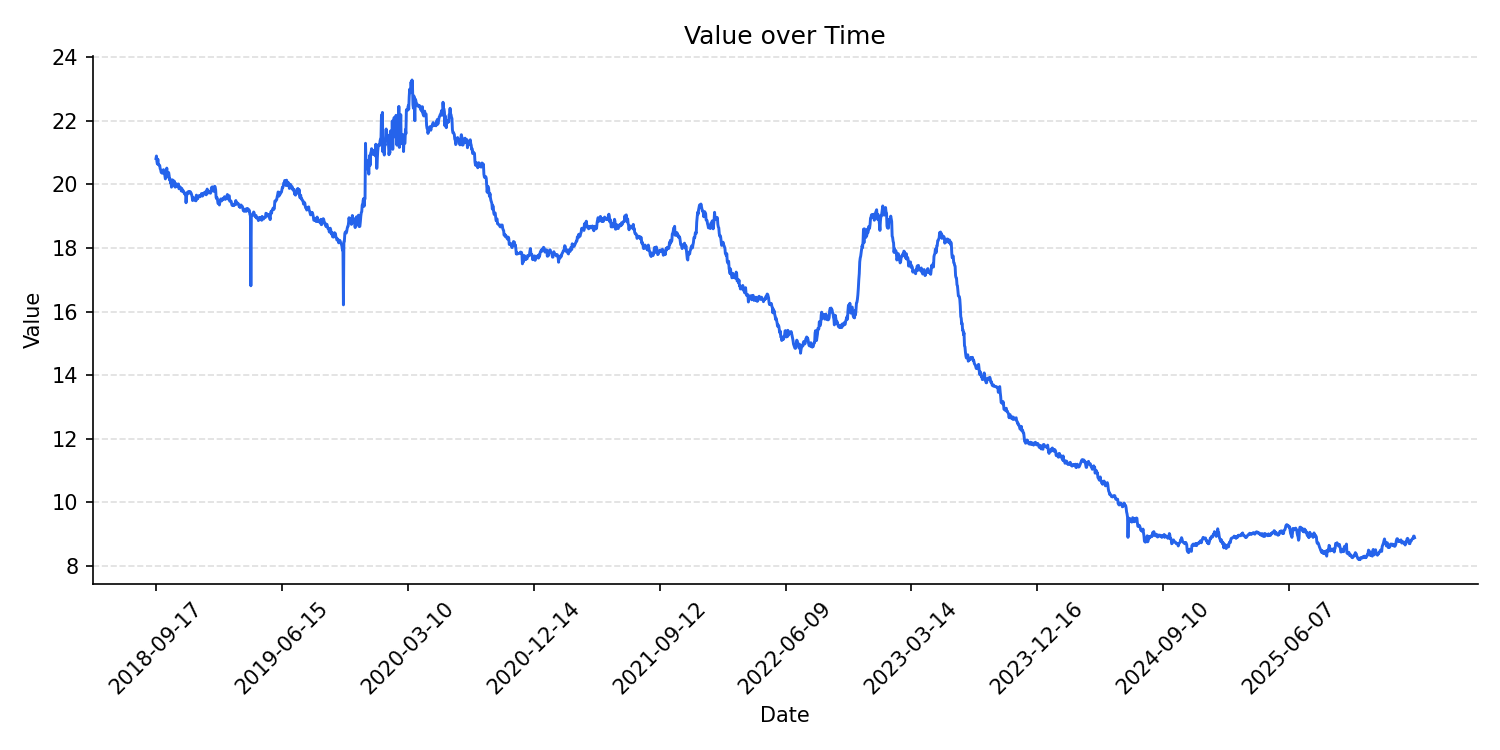
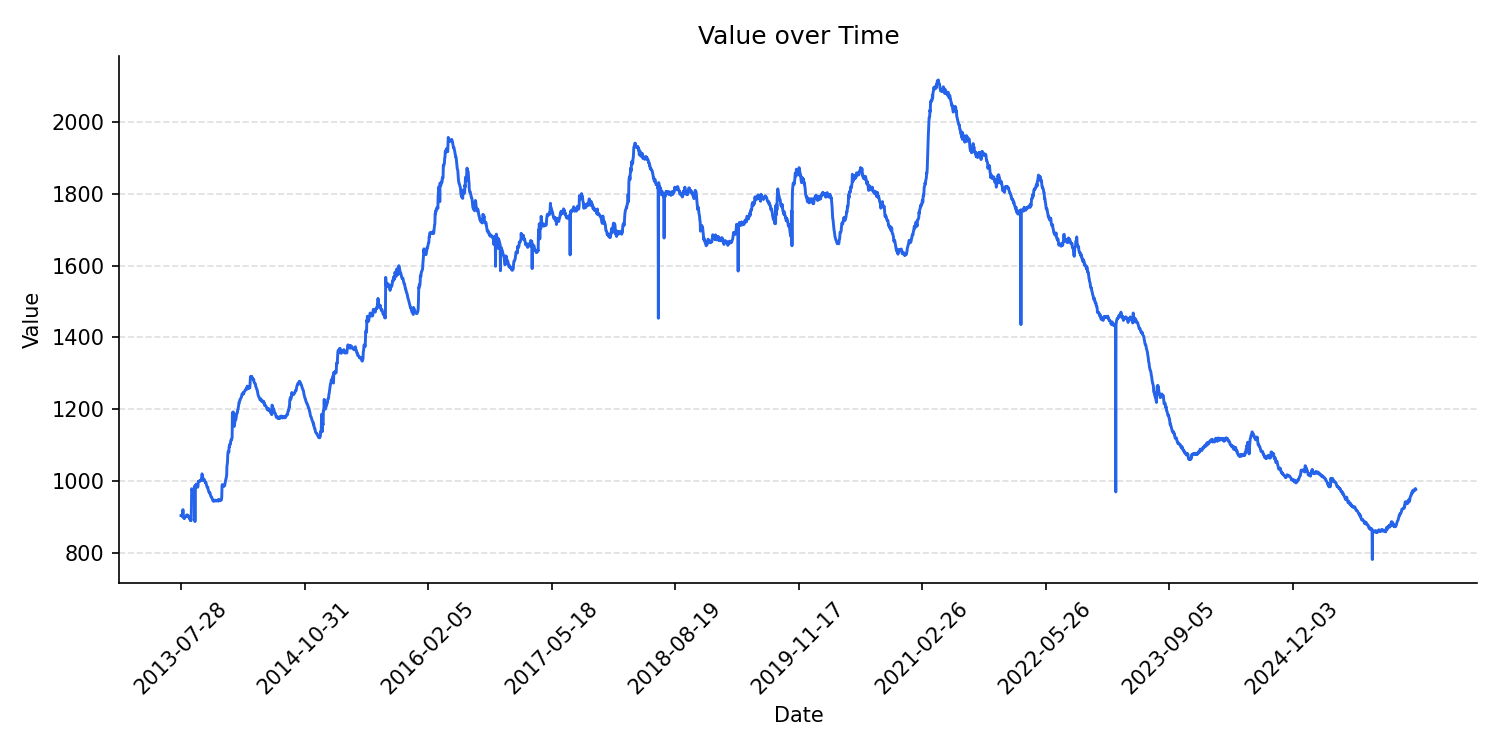
full stuff

diff --git a/price.py b/price.py
@@ -14,8 +14,9 @@ def _():
     import os
     import tqdm
     import time
+    import ast
     from urllib.parse import quote
-    return json, pd, quote, requests, time, tqdm
+    return ast, json, pd, quote, requests, time
 
 
 @app.cell
@@ -79,7 +80,7 @@ def _(quote, requests, time):
     PRICE_URL = "https://www.mtggoldfish.com/price_history_component?card_id={id}&type=paper&price_type=card"
 
     # get_price_history("Lightning Bolt", "m10")
-    return (get_price_history,)
+    return
 
 
 @app.function
@@ -133,29 +134,37 @@ def _():
     cube = open("cubes/moderncubexiv.txt").read().split("# maybeboard")[0].split("\n")[1:-2]
     histories = {}
     errors = []
-    return cube, errors, histories
+    return
 
 
-@app.cell
-def _(cube, errors, get_oset, get_price_history, histories, tqdm):
+@app.cell(disabled=True)
+def _():
 
-    for name in tqdm.tqdm(cube):
-        oset = get_oset(name)
-        if oset is not None:
-            histories[(name, oset)] = get_price_history(name, oset)  
-        else:
-            print("error", name)
-            errors.append(name)
+    # for name in tqdm.tqdm(cube):
+    #     oset = get_oset(name)
+    #     if oset is not None:
+    #         histories[(name, oset)] = get_price_history(name, oset)  
+    #     else:
+    #         print("error", name)
+    #         errors.append(name)
     return
 
 
 @app.cell
-def _(histories):
+def _(ast):
+    histories2 = ast.literal_eval(open("testgeroii").read())
+    histories2
+    return (histories2,)
+
+
+@app.cell
+def _(histories2):
     summed_histories = {}
-    base = histories[list(histories.keys())[0]]
+    histories3 = {k:v for k,v in histories2.items() if v is not None}
+    base = histories3[list(histories3.keys())[0]]
     for k in base.keys():
-        if all(k in i or len(i) == 0 for i in histories.values()):
-            summed_histories[k] = sum(i.get(k, 0) for i in histories.values())
+        # if all(i is None or k in i or len(i) == 0 for i in histories3.values()):
+        summed_histories[k] = sum(i.get(k, 0) for i in histories3.values())
 
     return (summed_histories,)
 
@@ -182,6 +191,18 @@ def _(summed_histories):
     plt.savefig("plot_output.png", dpi=150)
     plt.show()
 
+    return
+
+
+@app.cell
+def _(get_oset):
+    deck = open("ctaerg").readlines()
+    deck = [i.split(" (")[0].split(" /")[0] for i in deck]
+    for card in deck:
+        # print(card)
+        num, *card = card.split()
+        card = ' '.join(card)
+        print(f'{num} {card} ({get_oset(card)})')
     return
 
 
